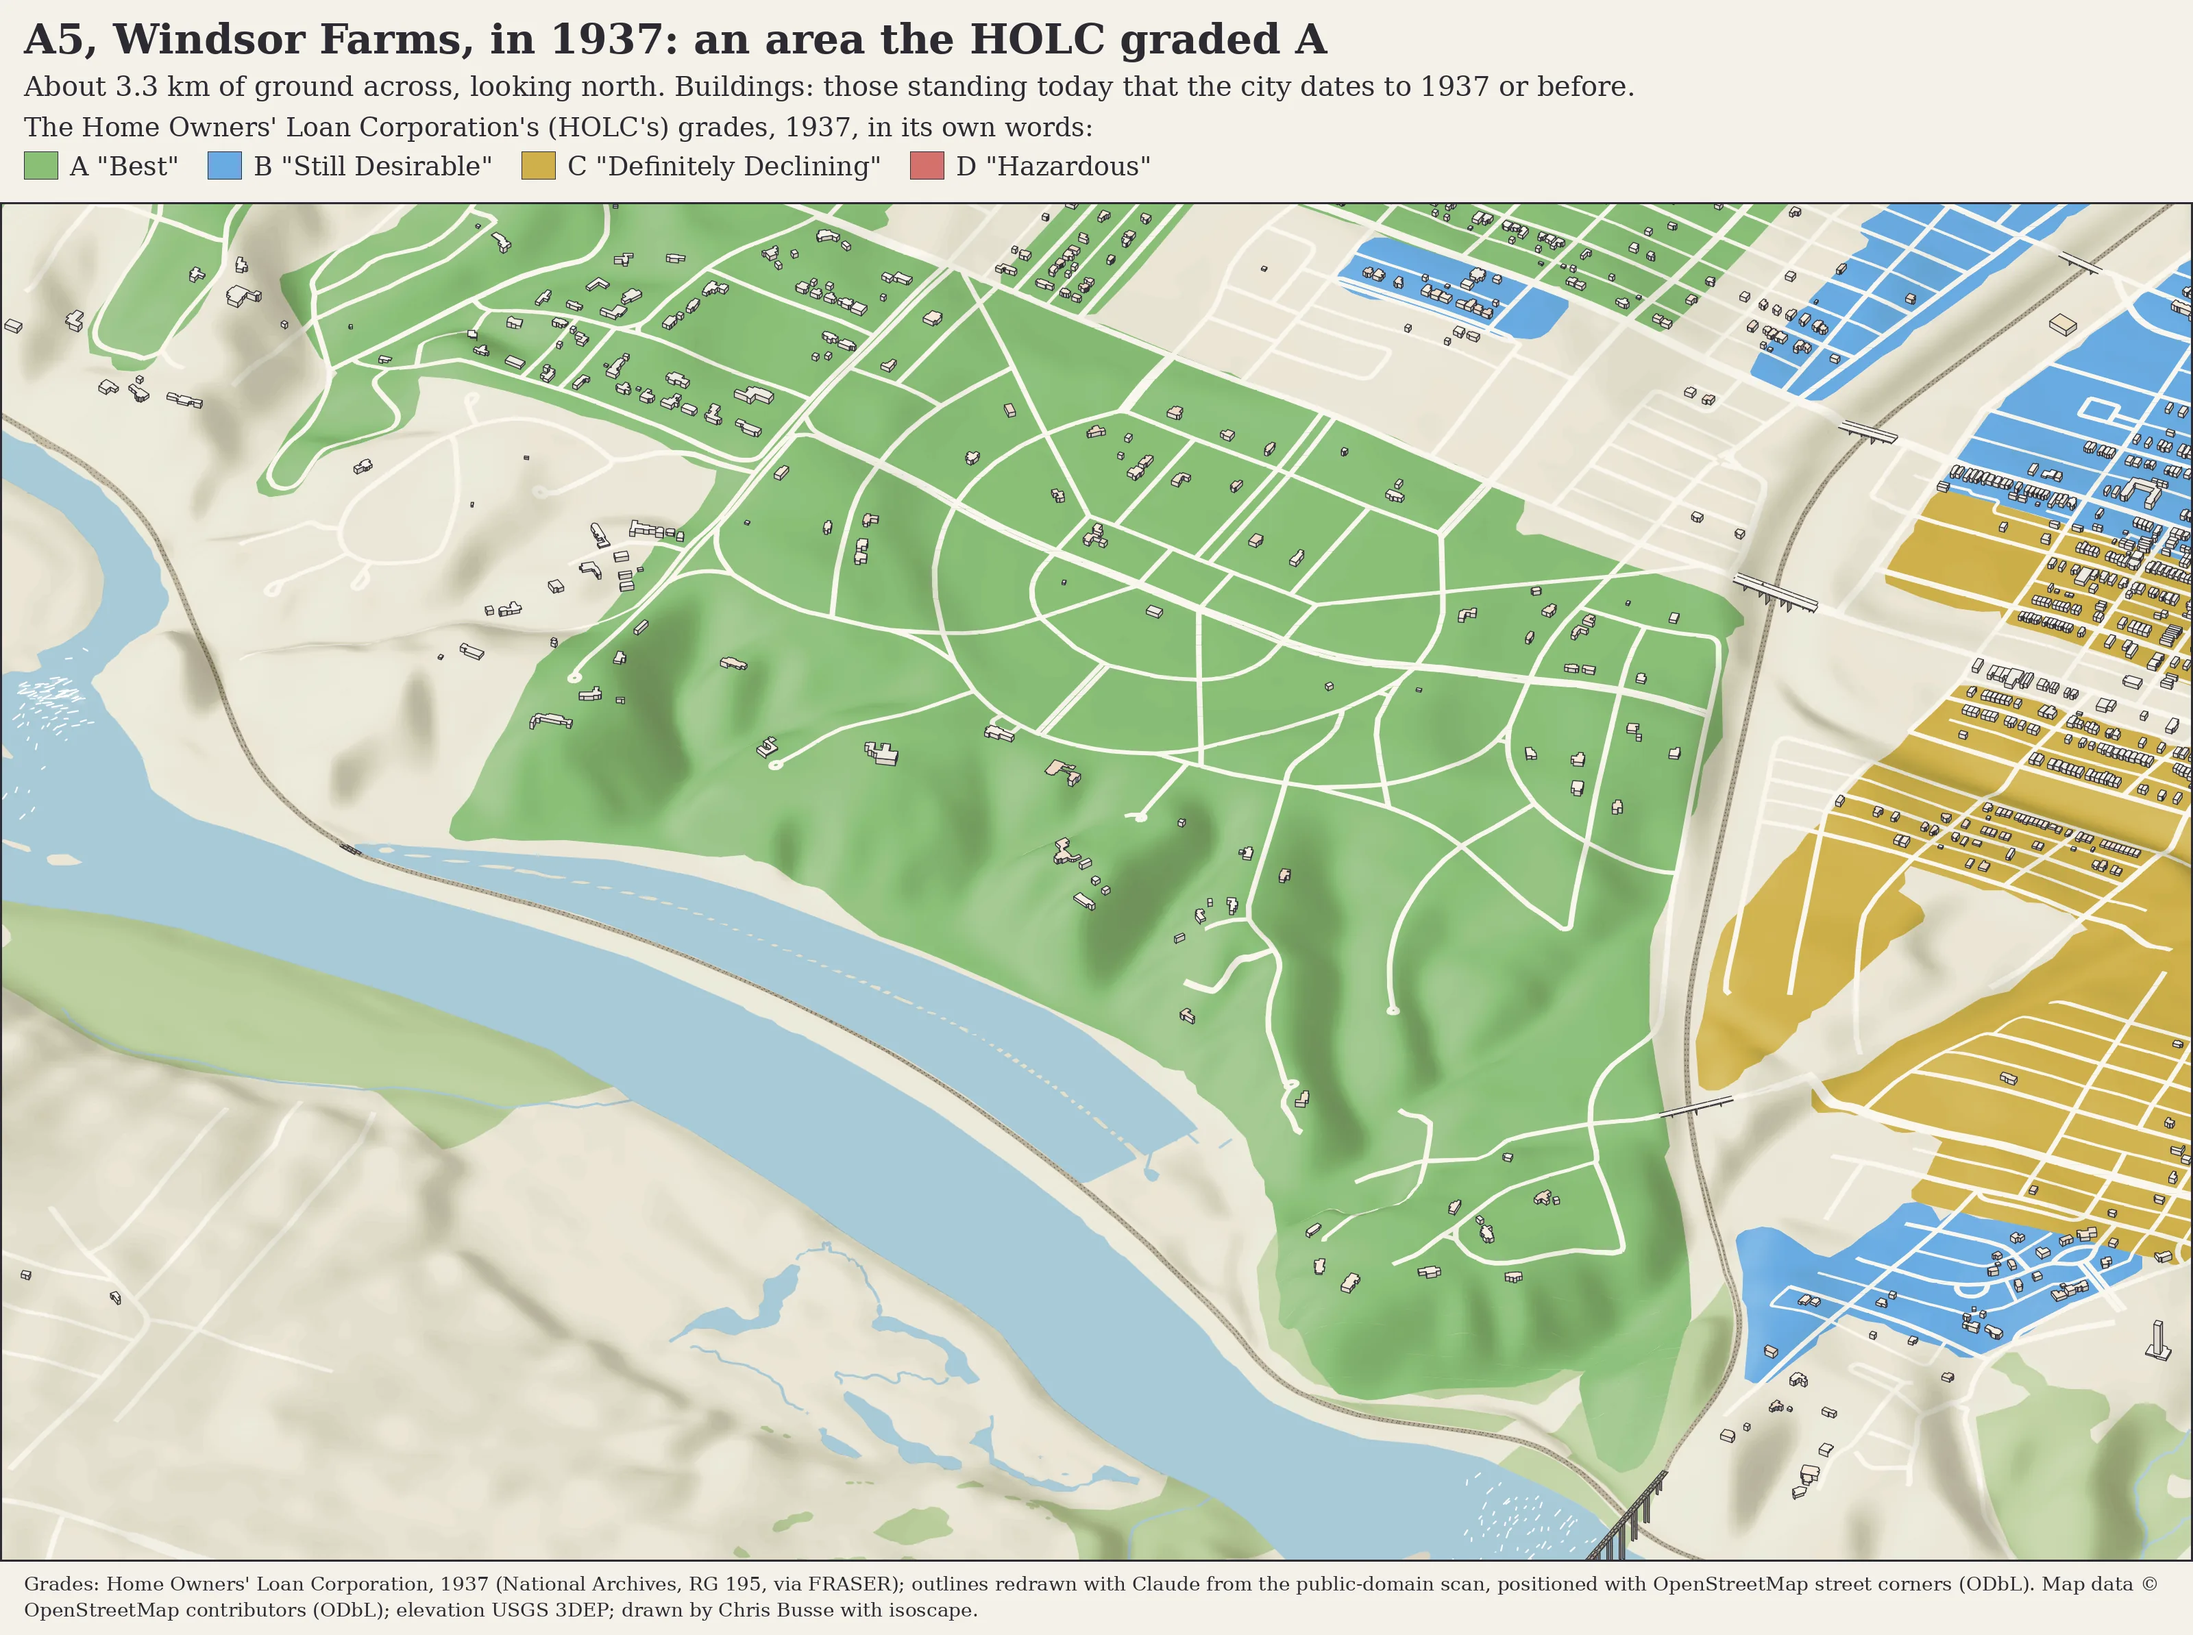
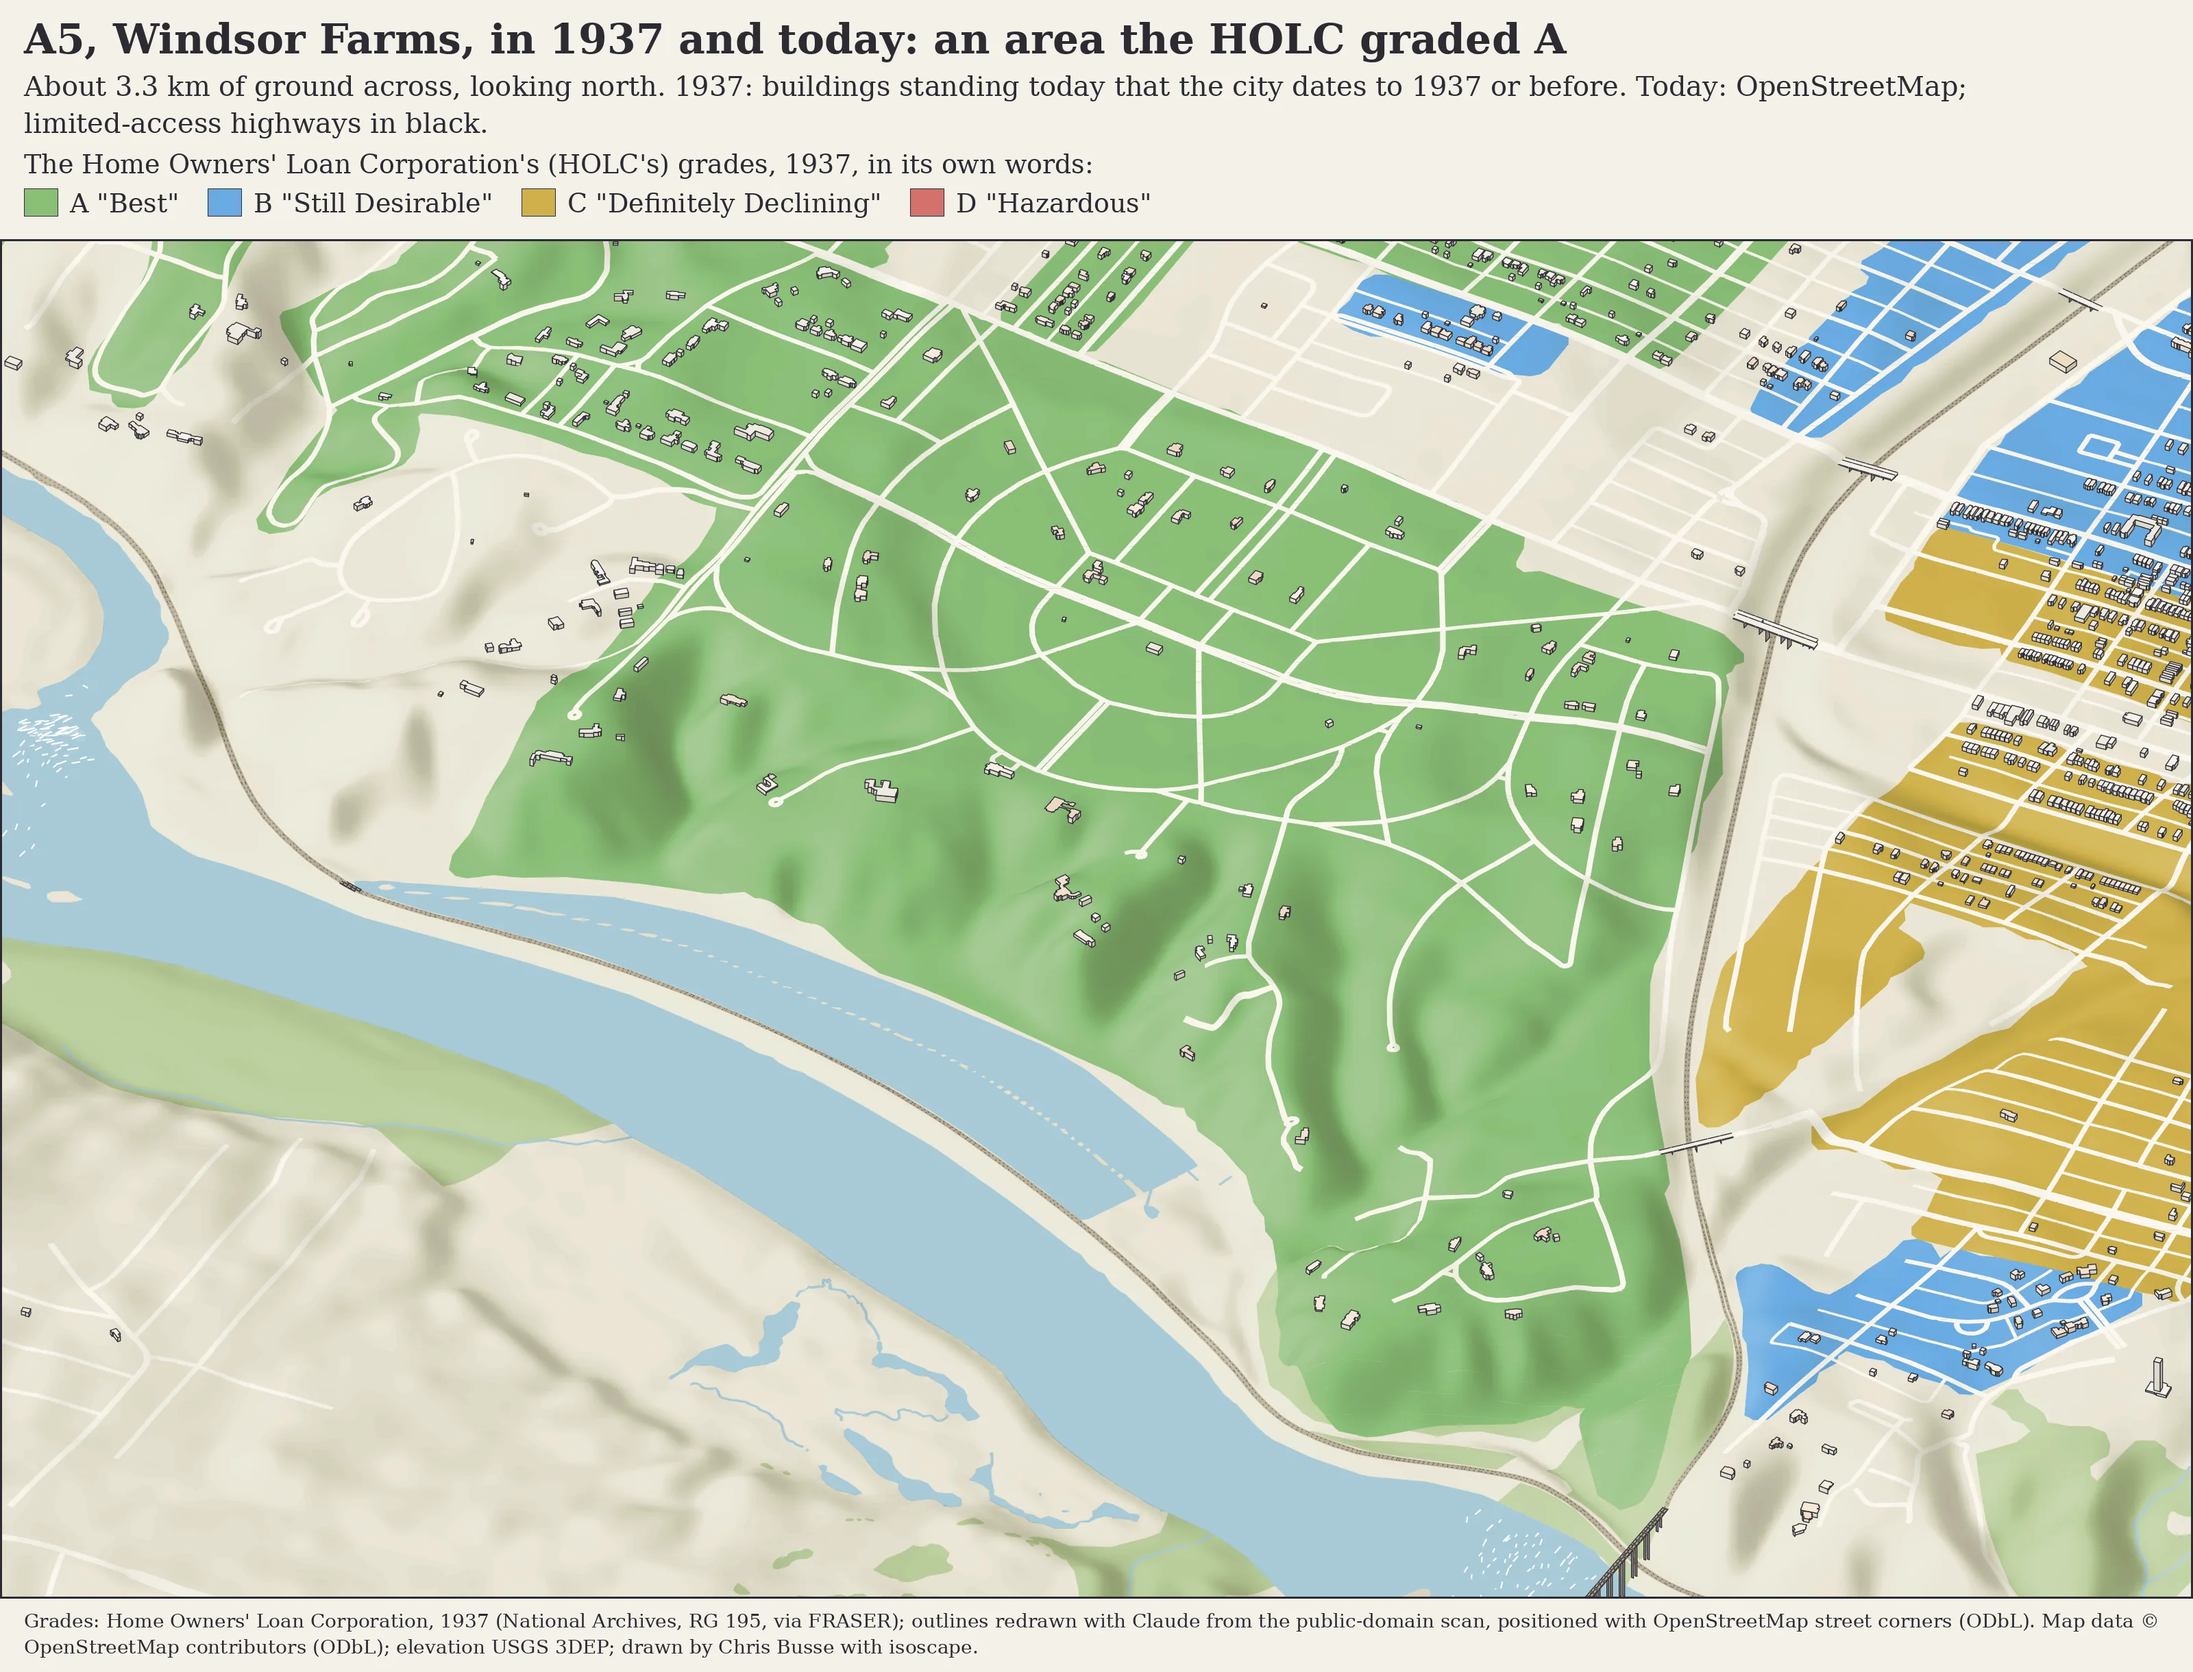
Redlining d1: one key band per compare pair, the twelve D areas as a grid figure, a list fix
Claude-Session: https://claude.ai/code/session_01BmucdKVM8FF97Ya9PzpVZh

diff --git a/tools/stories/redlining/views.py b/tools/stories/redlining/views.py
@@ -252,7 +252,11 @@ def main():
             how = {('A5', '1937'): ' Buildings: those standing today that the city dates to 1937 or before.',
                    ('D1', '1937'): ' Buildings: those standing today that the city dates to 1937 or before, and in Jackson Ward those on the 1925 and 1952 Sanborn maps; most others then standing are gone and not drawn.'}.get((label, year), " Today's buildings and streets; limited-access highways in black.")
             im = raster(svg, box, 3200, tmp)
-            args = (f'{label}, {title}, {when}: an area the HOLC graded {grade}', f'About {ground / 1000:.1f} km of ground across, looking north.' + how)
+            # One band for both years: the slider shows one picture's left and the other's right,
+            # so a band that differed would read as one broken line.
+            how = {'A5': ' 1937: buildings standing today that the city dates to 1937 or before. Today: OpenStreetMap; limited-access highways in black.',
+                   'D1': ' 1937: buildings standing today that the city dates to 1937 or before, and those on the 1925 and 1952 Sanborn maps; most others then standing are gone and not drawn. Today: OpenStreetMap; highways in black.'}[label]
+            args = (f'{label}, {title}, in 1937 and today: an area the HOLC graded {grade}', f'About {ground / 1000:.1f} km of ground across, looking north.' + how)
             made[year] = (im, args, keyed(im, *args))
         # The two years open in one compare slider, so their pictures must sit at the same height:
         # the shorter band gets the difference.
@@ -269,6 +273,15 @@ def main():
             im = raster(b, clamp(box, union), 2400, tmp)
             save(keyed(im, f'{label}, {NAMES[label]}: graded D in 1937, seen today',
                        f'About {ground / 1000:.1f} km of ground across, looking north. Interstates and the Downtown Expressway in black.'), name, a.full)
+    # The twelve together, four by three, as one figure the page shows as a grid.
+    if want('d-grid') or want('d-all'):
+        cells = [Image.open(os.path.join(ROOT, 'pages', f'redlining-d-{slug(l)}.webp')).convert('RGB') for l in D_AREAS]
+        cw, gap = 1600, 30
+        ch = max(round(c.height * cw / c.width) for c in cells)
+        grid = Image.new('RGB', (4 * cw + 3 * gap, 3 * ch + 2 * gap), P['sky'])
+        for i, c in enumerate(cells):
+            grid.paste(c.resize((cw, round(c.height * cw / c.width)), Image.LANCZOS), ((i % 4) * (cw + gap), (i // 4) * (ch + gap)))
+        save(grid, 'd-grid', a.full)
     if os.path.exists(tmp):
         os.remove(tmp)
 

diff --git a/pages/redlining.md b/pages/redlining.md
@@ -278,8 +278,17 @@ in code from the dates in `timeline.ts`, each with its source.
 The HOLC graded twelve Richmond areas D. Each figure below shows one of them today, with the 1937
 grades under it, and says what the 1937 form recorded (paraphrased) and what stands on that
 ground now. The forms leave the name field blank, so the names are this page's, placed from the
-streets and landmarks inside each outline. Click any picture to open it large; in the large view
-the arrow keys step from one area to the next, and **All figures** shows them as a grid.
+streets and landmarks inside each outline. The first figure shows all twelve together; click any
+picture to open it large, where the arrow keys step from one area to the next.
+
+::: figure wide
+![The twelve D areas in a grid of four columns and three rows, D1 to D11.5, each a close view of the area today with the 1937 grades tinted under it, its number and name above it](redlining-d-grid.webp)
+
+The twelve areas the Home Owners' Loan Corporation (HOLC) graded D, "Hazardous", in 1937, each
+seen today, in a grid from D1 at top left to D11.5 at bottom right. Each panel carries its own
+key; each is shown large, with its notes, in the figures that follow. *How this was made:* as the
+figures below, composed in code. Working draft.
+:::
 
 ::: figure
 ![D1, Jackson Ward, Apostle Town and Navy Hill, seen from the south today, with the 1937 grades tinted on the ground: the area itself in the red of grade D, its neighbors in the other grades' colors](redlining-d-d1.webp)
@@ -544,8 +553,8 @@ Opened while drafting, on the date given.
 - **Fishback et al. 2022**: Price V. Fishback, Jonathan Rose, Kenneth A. Snowden and Thomas
   Storrs, "New Evidence on Redlining by Federal Housing Programs in the 1930s", NBER Working
   Paper 29244, September 2021, https://www.nber.org/papers/w29244, published in the *Journal of
-  Urban Economics*, 2022, https://doi.org/10.1016/j.jue.2022.103462; abstract opened November 22,
-  2026.
+  Urban Economics*, 2022, https://doi.org/10.1016/j.jue.2022.103462; abstract opened on
+  November 22, 2026.
 - **LVA timeline**: Library of Virginia, "Mapping Inequality timeline",
   https://www.lva.virginia.gov/events/exhibitions/online/oe/exhibits/show/mapping-inequality/mapping-inequality-timeline
   (opened November 22, 2026).

diff --git a/tools/stories/redlining/story.md b/tools/stories/redlining/story.md
@@ -282,8 +282,17 @@ in code from the dates in `timeline.ts`, each with its source.
 The HOLC graded twelve Richmond areas D. Each figure below shows one of them today, with the 1937
 grades under it, and says what the 1937 form recorded (paraphrased) and what stands on that
 ground now. The forms leave the name field blank, so the names are this page's, placed from the
-streets and landmarks inside each outline. Click any picture to open it large; in the large view
-the arrow keys step from one area to the next, and **All figures** shows them as a grid.
+streets and landmarks inside each outline. The first figure shows all twelve together; click any
+picture to open it large, where the arrow keys step from one area to the next.
+
+::: figure wide
+![The twelve D areas in a grid of four columns and three rows, D1 to D11.5, each a close view of the area today with the 1937 grades tinted under it, its number and name above it](redlining-d-grid.webp)
+
+The twelve areas the Home Owners' Loan Corporation (HOLC) graded D, "Hazardous", in 1937, each
+seen today, in a grid from D1 at top left to D11.5 at bottom right. Each panel carries its own
+key; each is shown large, with its notes, in the figures that follow. *How this was made:* as the
+figures below, composed in code. Working draft.
+:::
 
 {{BOXES}}
 
@@ -477,8 +486,8 @@ Opened while drafting, on the date given.
 - **Fishback et al. 2022**: Price V. Fishback, Jonathan Rose, Kenneth A. Snowden and Thomas
   Storrs, "New Evidence on Redlining by Federal Housing Programs in the 1930s", NBER Working
   Paper 29244, September 2021, https://www.nber.org/papers/w29244, published in the *Journal of
-  Urban Economics*, 2022, https://doi.org/10.1016/j.jue.2022.103462; abstract opened November 22,
-  2026.
+  Urban Economics*, 2022, https://doi.org/10.1016/j.jue.2022.103462; abstract opened on
+  November 22, 2026.
 - **LVA timeline**: Library of Virginia, "Mapping Inequality timeline",
   https://www.lva.virginia.gov/events/exhibitions/online/oe/exhibits/show/mapping-inequality/mapping-inequality-timeline
   (opened November 22, 2026).
